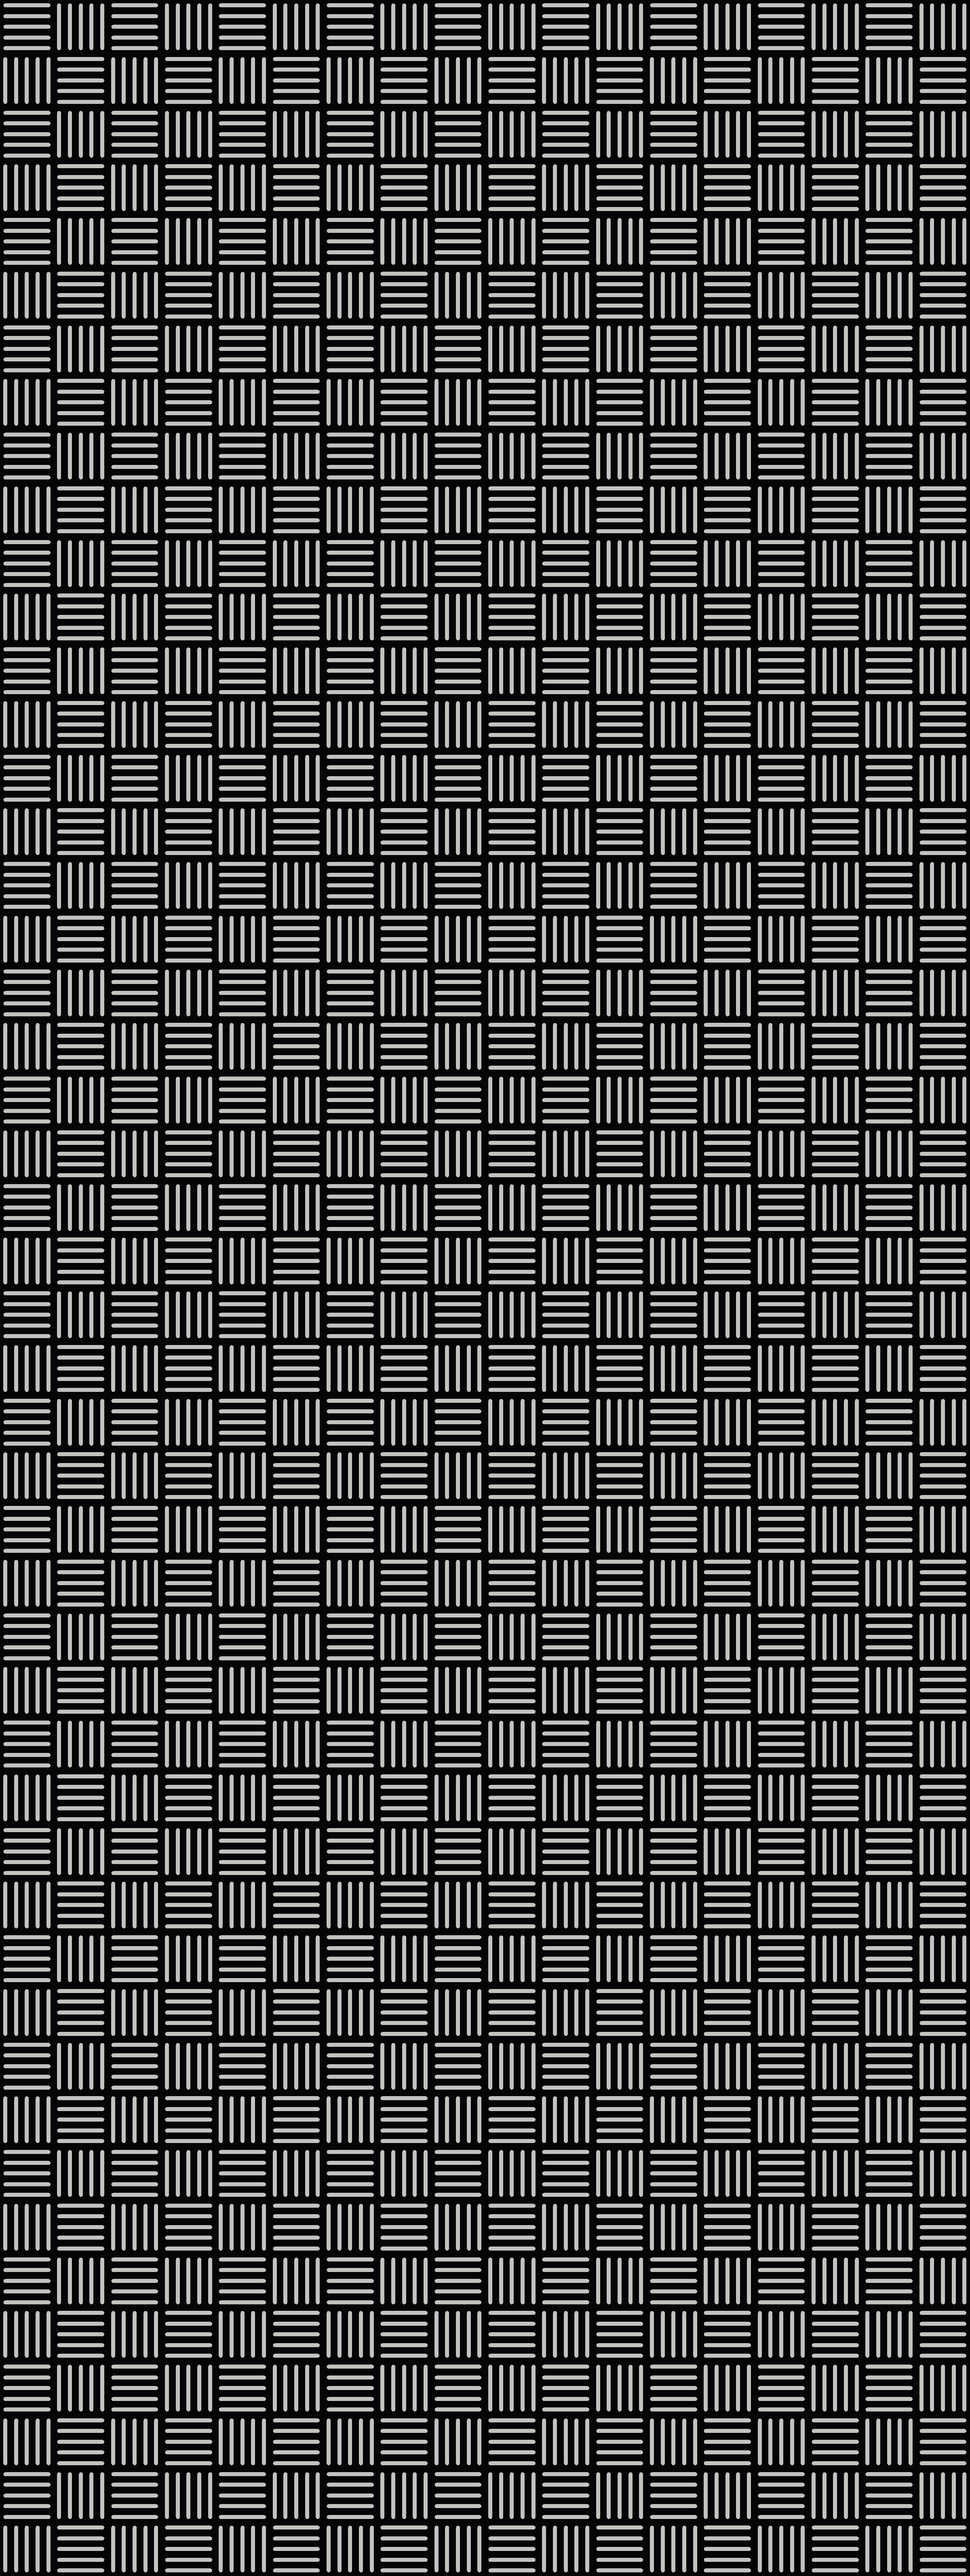
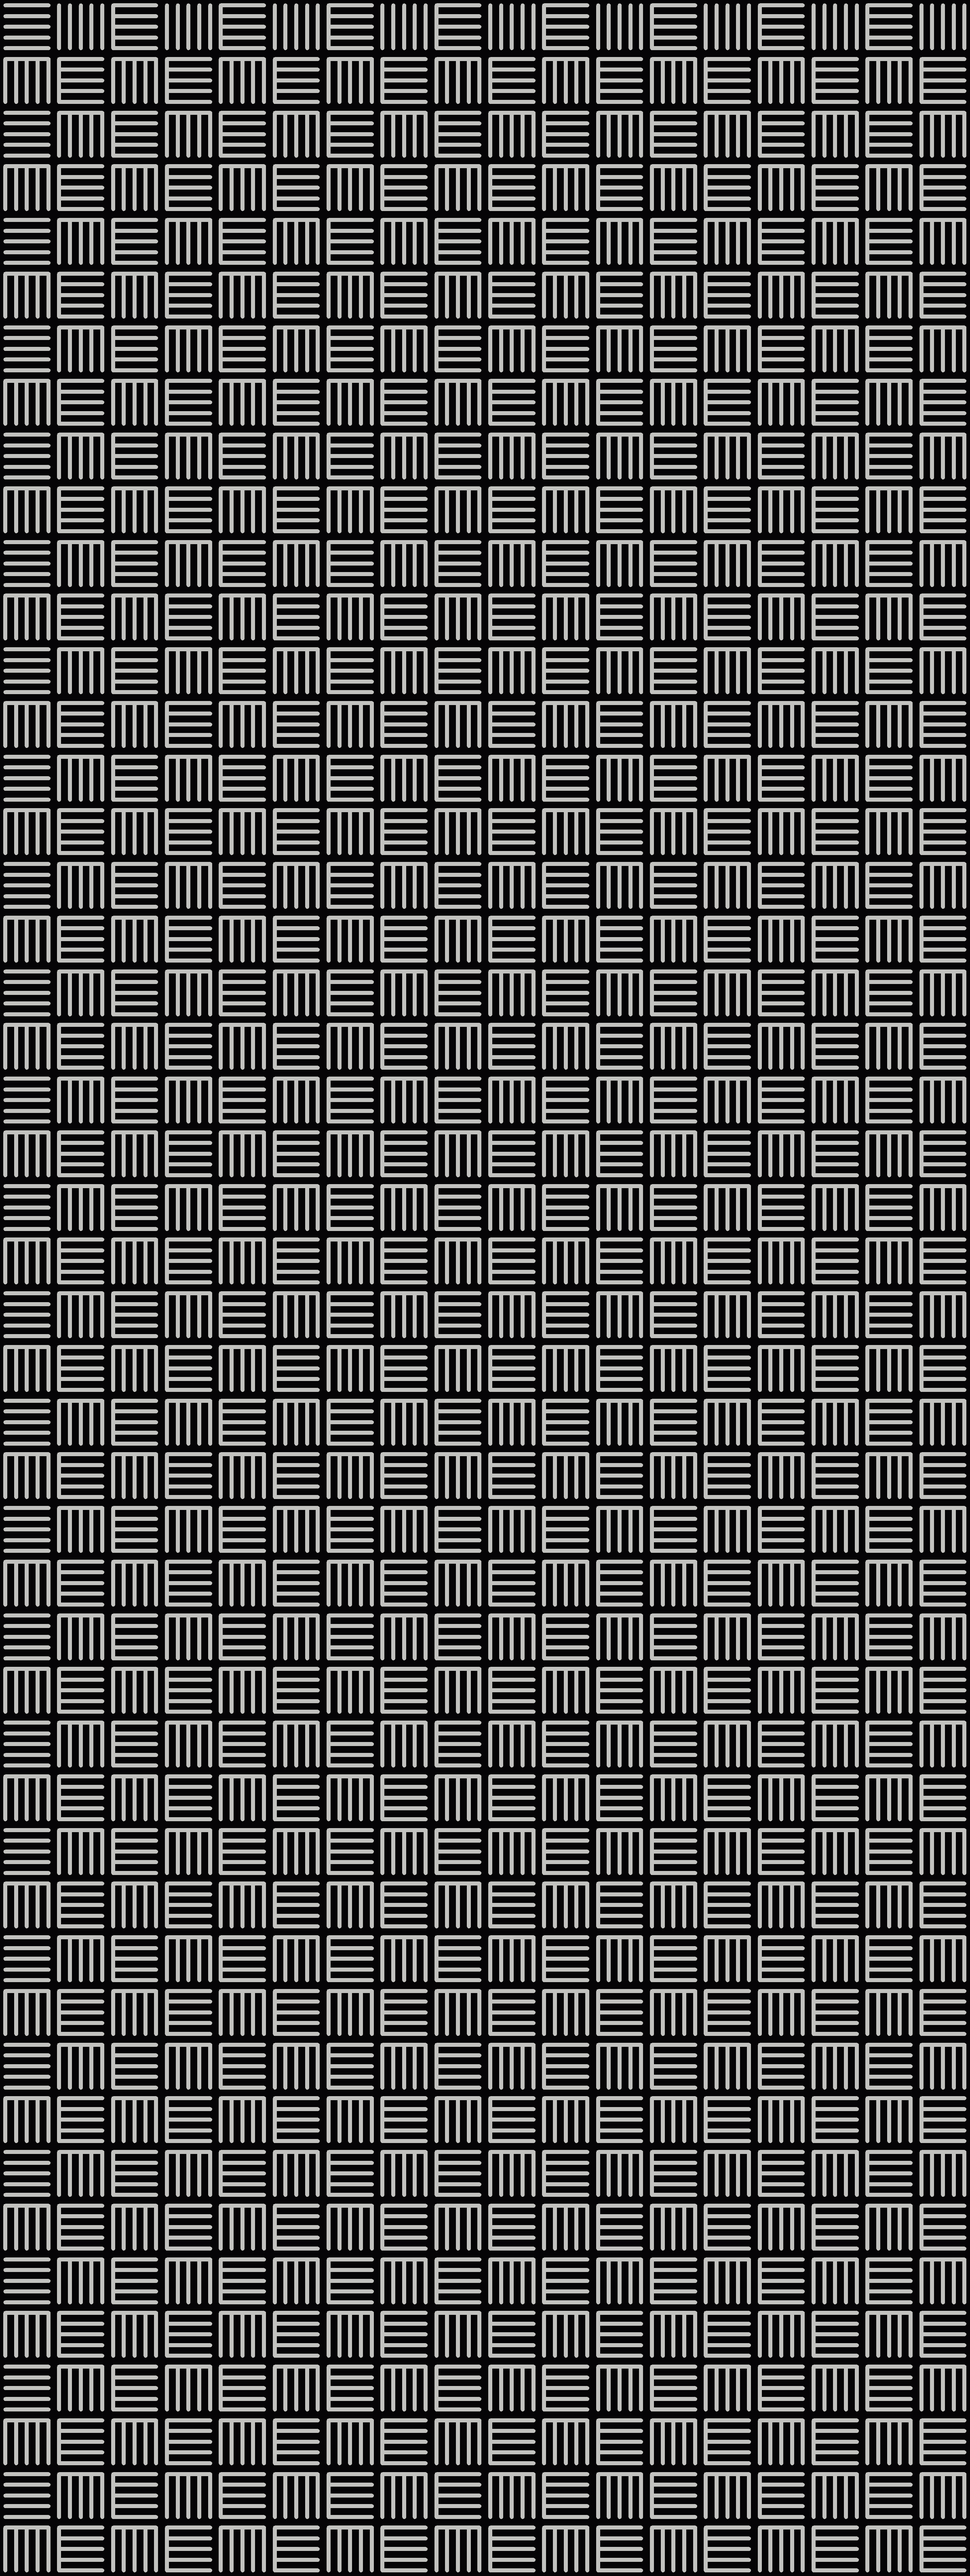
match latest grid version

diff --git a/_posts/2017-02-06-cross_hatch.md b/_posts/2017-02-06-cross_hatch.md
@@ -11,8 +11,6 @@ Here is [WOVNS][wovns] example sketch converted to JRubyArt.
 ### cross_hatch.rb (vanilla processing WOVNS example)
 
 ```ruby
-# Original sketch by David M. Ellis
-# https://github.com/damellis/wovns-processing-examples
 # Divan Quality, Landscape 1 Palette
 # This draws a cross-hatch pattern, i.e. a grid of cells, each of which contains
 # multiple lines. The lines in each cell alternate between horizontal and vertical.
@@ -26,31 +24,32 @@ def settings
 end
 
 def setup
+  sketch_title 'Cross Hatch'
   background(color('#050406')) # Black Satin
   stroke(color('#C2C2BF')) # Pearl
-  stroke_weight(10) # draw lines 10 pixels thick
+  strokeWeight(10) # draw lines 10 pixels thick
   # the width and height of each cell of the grid
-  w = width / 18.0
-  h = height / 48.0
+  w = width / 18
+  h = height / 48
   # the distance between stripes
   w2 = w / NUM_STRIPES
-  h2 = h / NUM_STRIPES  
-  grid(width, height, w, h) do |row, col| # JRubyArt grid method
+  h2 = h / NUM_STRIPES
+  grid(w, h) do |col, row|
     (0..NUM_STRIPES).each do |i|
-      # this will be true for every other cell in the grid
-      if (row % NUM_STRIPES + col % NUM_STRIPES).zero?
+      if (row + col).even?
         # horizontal lines
-        line(col + w2 / 2, row + i * h2 + h2 / 2,
-        (col + 1) - w2 / 2, row + i * h2 + h2 / 2)
+        line(w * col + w2 / 2, h * row + i * h2 + h2 / 2,
+        w * (col + 1) - w2 / 2, h * row + i * h2 + h2 / 2)
       else
         # vertical lines
-        line(col + i * w2 + w2 / 2, row + h2 / 2,
-        col + i * w2 + w2 / 2, (row + 1) - h2 / 2)
+        line(w * col + i * w2 + w2 / 2, h * row + h2 / 2,
+        w * col + i * w2 + w2 / 2, h * (row + 1) - h2 / 2);
       end
     end
   end
   save(data_path('hatch.png'))
 end
+
 ```
 
 ### Output
